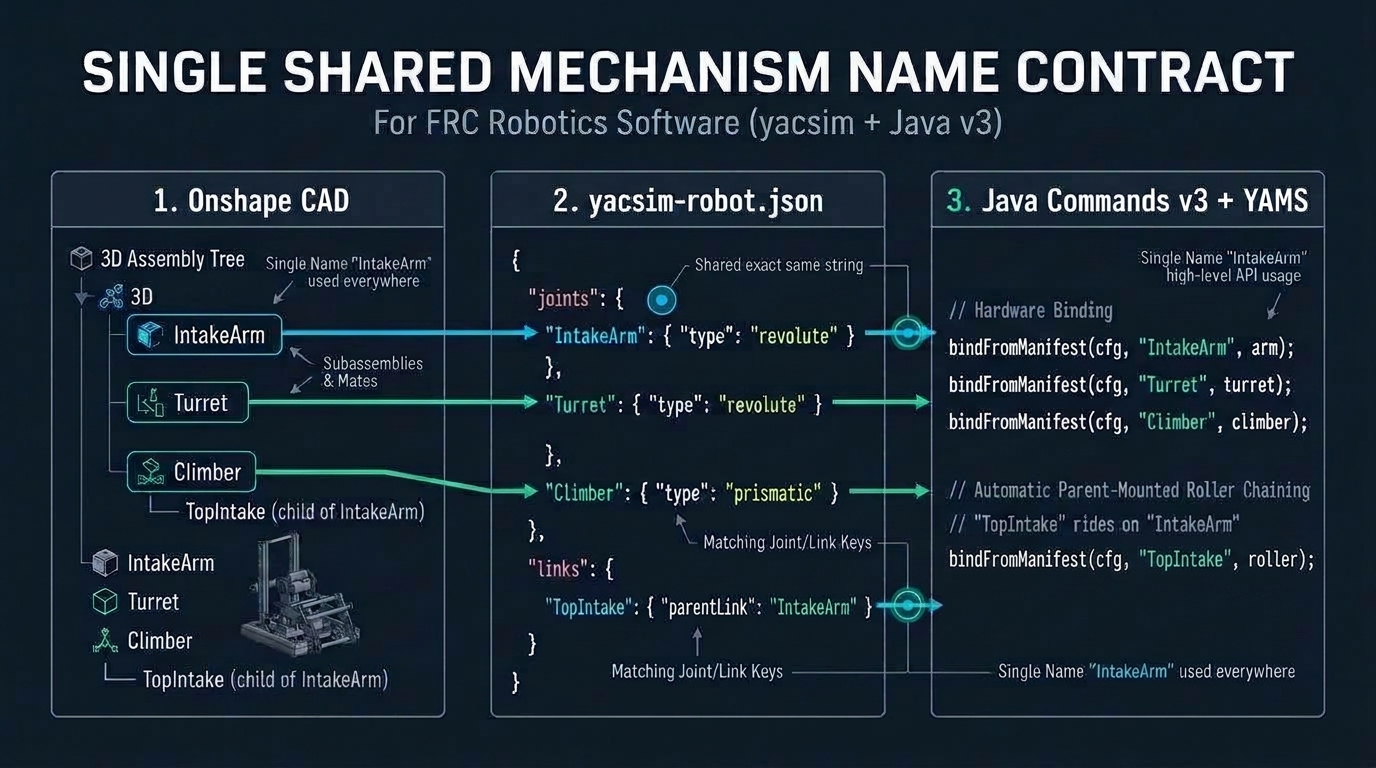
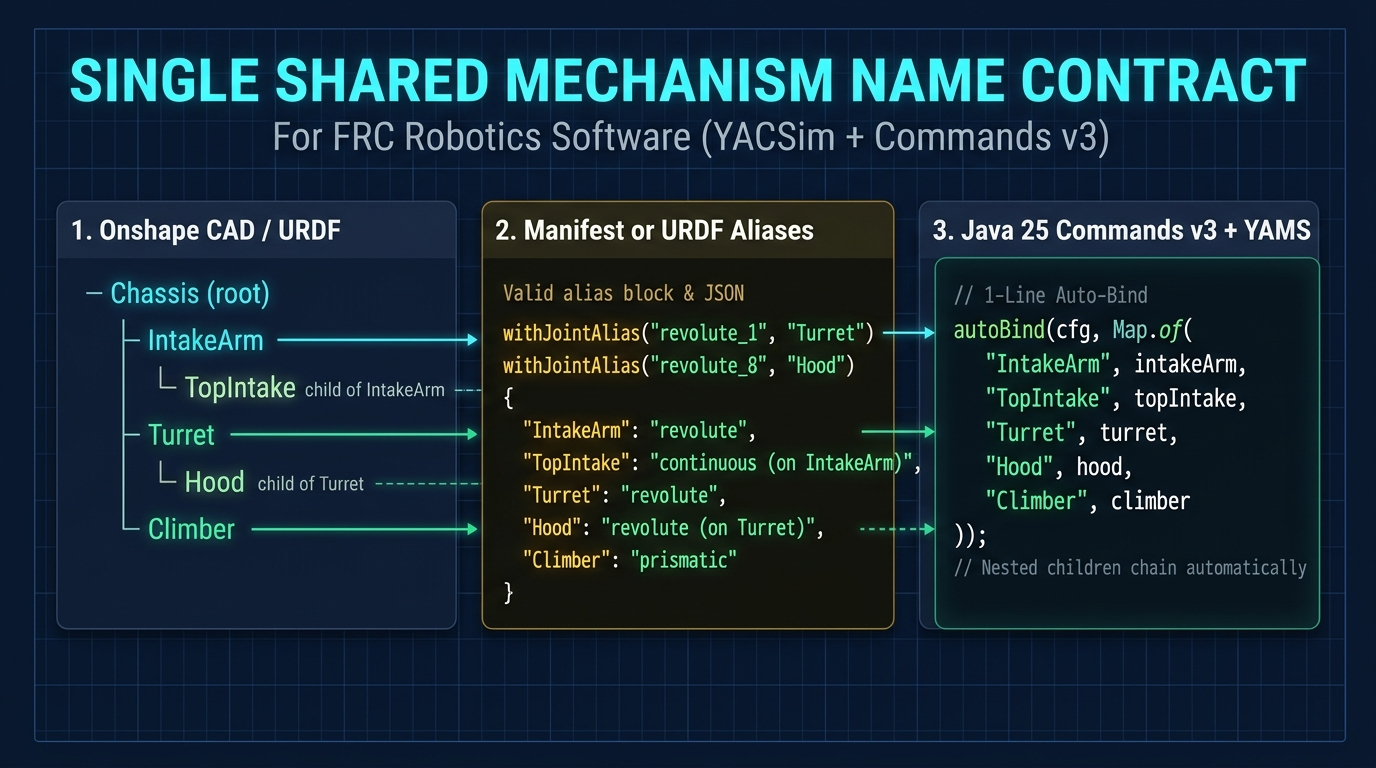
Docs & visuals audit fix for v2027.5.0-alpha1: API completeness, 5th example, Python test counts, and updated neon diagrams

diff --git a/examples/README.md b/examples/README.md
@@ -1,10 +1,10 @@
 # YACSim Examples (WPILib 2027 / Commands v3)
 
-Both examples are standalone WPILib `2027.0.0-alpha-7` GradleRIO projects configured to resolve YACSim from the relative local Maven repository (`../../../vendordep/build/maven/releases`).
+All five examples are standalone WPILib `2027.0.0-alpha-7` GradleRIO projects configured to resolve YACSim from the relative local Maven repository (`../../../vendordep/build/maven/releases`).
 
 ## Prerequisites
 
-Build and publish YACSim locally once before running either example:
+Build and publish YACSim locally once before running any example:
 
 ```powershell
 cd vendordep
@@ -35,10 +35,21 @@ An independent community port referencing [FRC Team 6328 Mechanical Advantage's 
    ```
 3. Switch the WPILib Sim GUI to **Teleoperated** and connect AdvantageScope to `127.0.0.1` to view `YACSim/RobotPose3d`, `YACSim/ComponentPoses`, `YACSim/CollisionActive`, `YACSim/CollisionDetails`, and `/YACSim/Rollers/<name>/{VelocityRPM,SurfaceSpeedMPS,Spinning}`.
 
-### 3. `commands3/darwin_6328_manifest_2027/` (Manifest-Driven CAD Automation)
+## 3. `commands3/darwin_6328_manifest_2027/` (Manifest-Driven CAD Automation)
 - **Robot**: FRC 6328 Mechanical Advantage *Darwin* (2026) referencing Darwin's [Onshape Assembly](https://cad.onshape.com/documents/2da573df9d139d7a1e0f08a8/w/5266e52966df9f56fcb472f0/e/15a6a42133f059b818ad5264).
 - **Highlights**: Loads all meshes, AdvantageScope zeroing, exact CAD mass/inertia, joint pivots, axes, hard/soft limits, drum/wheel radii, and cameras from `src/main/deploy/yacsim/darwin/yacsim-robot.json` via `CadRobotConfig.fromManifest(...)` and `YamsCommands3Bridge.bindFromManifest(...)`, leaving only CAN IDs, motor types, gear ratios, and PID/FF gains in Java.
 
-### 4. `commands3/gears_2181_2027/` (FRC Team 2181 GEARS — REVLib 2027 + YAMS + YACSim)
+## 4. `commands3/gears_2181_2027/` (FRC Team 2181 GEARS — REVLib 2027 + YAMS + YACSim)
 - **Robot**: Port of [FRCteam2181/2026-Comp-Code](https://github.com/FRCteam2181/2026-Comp-Code) (`main` branch) to WPILib 2027 Commands v3, REVLib 2027 (`SparkMax`/`SparkFlex`), YAMS 2027, and YACSim.
 - **Highlights**: All 7 mechanisms (`IntakeArm`, `Turret`, `Climber`, `Shooter`, `Spindexer`, `TopIntake`, `Input`) driven from `src/main/deploy/yacsim/gears2181/yacsim-robot.json` with automatic parent-mounted roller chaining (`TopIntake` riding on `IntakeArm`, `Shooter` riding on `Turret`), ready to drop in Team 2181's Onshape export with zero Java changes.
+
+## 5. `commands3/rebuilt_ballistics_3d_2027/` (RK4 3D Ballistics, Dual-Pose Truth & DataLog)
+
+- **Robot**: Self-contained 2026 REBUILT 3D showcase with lit `.glb` meshes (`chassis.glb`, `turret.glb`, `hood.glb`, `swerve_fork.glb`, `swerve_wheel.glb`) and `yacsim-field.json` 3D field OBBs.
+- **Highlights**: Demonstrates `v2027.5.0-alpha1` features end-to-end: dual-pose `/YACSim/SimTruthPose3d` alongside noisy odometry, direct WPILib `.wpilog` struct recording (`withDataLogEnabled(true)`), and pure-Java RK4 3D Fuel ballistics (`ProjectilePhysicsSim`, `FieldObstacle3d.loadFieldManifest(...)`, and `TrajectoryArcPublisher`).
+
+```powershell
+cd examples\commands3\rebuilt_ballistics_3d_2027
+.\setup_rebuilt_3d.ps1
+.\gradlew run "-Dorg.gradle.java.home=C:\Users\Public\wpilib\2027_alpha7\jdk"
+```

diff --git a/docs/API_REFERENCE.md b/docs/API_REFERENCE.md
@@ -35,6 +35,7 @@ Direct adapters binding YAMS 2027 Commands v3 mechanisms to YACSim `Supplier<Pos
 | `static List<Supplier<Pose3d>> fromCascadingElevator(Elevator elevator, int stageCount, Translation3d base, MotionAxis axis)` | Builds proportional per-stage `Pose3d` suppliers (`1/N .. N/N`). |
 | `static Supplier<Pose3d> fromFourBar(Arm arm, Translation3d pivot, double armLengthMeters, MotionAxis axis [, boolean inverted])` | Keeps a 4-bar end-effector level while following the arm's circular arc. |
 | `static CadDrivetrainConfig fromYamsSwerve(SwerveDrive drive, ...)` | Binds `drive::getPose`, `drive::getGyroRotation3d`, and `drive::getModulePositions` directly. |
+| `static CadRobotConfig attachSwerveModulesWithTruth(CadRobotConfig config, SwerveDrive drive, ...)` | (`v2027.5.0-alpha1`) Attaches 4 animated swerve modules AND binds `drive::getSimPose` to `/YACSim/SimTruthPose3d`. |
 | `static Supplier<Pose3d> fromYamsFlyWheel(FlyWheel flywheel, Transform3d mountOffset)` | Wraps YAMS `FlyWheel.getPose3d()` with a CAD mounting offset. |
 | `static Supplier<Pose3d> fromYamsRollerMotor(SmartMotorController motor, Translation3d axle, MotionAxis axis [, boolean inverted])` | Spins a roller/wheel `.glb` directly from `motor.getMechanismPosition()`. |
 | `static Supplier<Pose3d> fromMountedYamsRoller(Supplier<Pose3d> parentPose, SmartMotorController motor, Translation3d localAxle, MotionAxis axis, boolean inverted)` | Mounts a spinning roller bar onto a moving parent mechanism. |
@@ -87,6 +88,9 @@ Fluent builder defining a simulated robot's chassis, articulated components, col
 | `withChassisAsset(CadAssetConfig asset)` | Sets chassis CAD asset directly (when not using `CadDrivetrainConfig`). |
 | `addComponent(CadComponentConfig comp)` | Adds an articulated mechanism component in AdvantageScope `model_N` order. |
 | `withDrivetrainPoseSupplier(Supplier<Pose2d> s)` | Default: `Pose2d::new`. |
+| `withSimTruthPoseSupplier(Supplier<Pose3d> s)` | Optional (`v2027.5.0-alpha1`); publishes ground-truth 3D pose to `/<tableName>/SimTruthPose3d` alongside fused odometry. |
+| `withSimTruthPose2dSupplier(Supplier<Pose2d> s)` | Optional (`v2027.5.0-alpha1`); wraps a 2D ground-truth supplier (e.g., YAMS `SwerveDrive::getSimPose`) as `/<tableName>/SimTruthPose3d`. |
+| `withDataLogEnabled(boolean enabled)` | Default: `false` (`v2027.5.0-alpha1`); writes `Pose3d`, `Pose3d[]`, and collision flags directly to WPILib `DataLogManager` (`.wpilog`) even when NT4 is off. |
 | `withTelemetryTable(String table)` | Default: `"YACSim"`. |
 | `withAdvantageScopeExportDir(Path dir)` | Optional; exports `Robot_<robotName>` bundle on simulator startup. |
 | `withAutoInstallToAdvantageScope()` / `withAutoInstallToAdvantageScope(boolean)` | Default: `false`; installs `Robot_<robotName>` directly into the OS AdvantageScope `userAssets` directory. |

diff --git a/docs/GUIDES.md b/docs/GUIDES.md
@@ -278,3 +278,41 @@ Want CAD to feed your mesh paths, AdvantageScope zeroing, exact mass/inertia ten
 
 - **CAD-to-Code Naming Conventions**: See [CAD_CODE_NAMING_CONVENTIONS.md](CAD_CODE_NAMING_CONVENTIONS.md) for aligning Onshape subassemblies and mates with your Java mechanisms.
 - **Step-by-Step Implementation Walkthrough**: See [IMPLEMENTATION_WALKTHROUGH.md](IMPLEMENTATION_WALKTHROUGH.md) for a complete visual guide from blank project to AdvantageScope.
+
+## 6. RK4 3D Ballistics, Dual-Pose Truth, WPILib DataLog & Field Exporter (`v2027.5.0-alpha1`)
+
+### Dual-Pose Ground Truth (`SimTruthPose3d`) & Direct `.wpilog` Recording
+
+Publish ground-truth physics pose alongside noisy fused odometry and record directly to WPILib's `.wpilog` DataLog (even when NetworkTables 4 is disabled for competition):
+
+```java
+CadRobotConfig cfg = CadRobotConfig.fromUrdfOrZip(urdfZip, CadUrdfOptions.recommended())
+    .withDrivetrainPoseSupplier(swerve::getPose)
+    .withSimTruthPose2dSupplier(swerve::getSimPose) // publishes /YACSim/SimTruthPose3d
+    .withDataLogEnabled(true);                      // records Pose3d & Pose3d[] to DataLogManager
+```
+
+Or wire animated swerve modules and ground-truth pose in one call via `YamsCommands3Bridge.attachSwerveModulesWithTruth(cfg, swerve, ...)`.
+
+### Pure-Java RK4 3D Projectile Physics & Aim Arcs
+
+Load 3D field obstacles and scoring targets from `yacsim-field.json` and step `ProjectilePhysicsSim` at 50 Hz alongside `TrajectoryArcPublisher`:
+
+```java
+List<FieldObstacle3d> obstacles = FieldObstacle3d.loadFieldManifest(deployDir.resolve("yacsim-field.json"));
+ProjectilePhysicsSim ballistics = new ProjectilePhysicsSim()
+    .withMaxActiveProjectiles(128)
+    .addObstacles(obstacles);
+TrajectoryArcPublisher arcPub = new TrajectoryArcPublisher("YACSim", true);
+
+// Launch a 2026 REBUILT Fuel sphere with backspin (include robot chassis velocity for SOTM)
+ballistics.launch(ProjectileSpec.frcFuel2026(), muzzleOrigin, fieldLaunchVel, backspinRadPerSec);
+ballistics.step(0.02);
+arcPub.publishPredictedArc(
+    ballistics.predictArc(ProjectileSpec.frcFuel2026(), muzzleOrigin, fieldLaunchVel, backspinRadPerSec, 0.04, 40));
+arcPub.publishActiveProjectiles(ballistics);
+```
+
+### Exporting Synced Field Polygons & 3D OBBs
+
+Use `tools/onshape-field-exporter/field_exporter.py` to generate YAECE `SeasonConfig` JSON (Andymark & Welded), PathPlanner `navgrid.json`, and YACSim `yacsim-field.json` from a single field geometry source of truth. See [`tools/onshape-field-exporter/README.md`](../tools/onshape-field-exporter/README.md).

diff --git a/README.md b/README.md
@@ -60,10 +60,10 @@ Call `yacsim.updateTelemetry()` from `robotPeriodic()` and `yacsim.simIterate()`
 | --- | --- |
 | [Getting Started](docs/GETTING_STARTED.md) · [Implementation Walkthrough](docs/IMPLEMENTATION_WALKTHROUGH.md) | Installation, prerequisites, first simulation, and AdvantageScope setup |
 | [Guides](docs/GUIDES.md) · [Native Onshape URDF Guide](docs/ONSHAPE_URDF_GUIDE.md) · [CAD Manifest & URDF Guide](docs/CAD_MANIFEST_GUIDE.md) · [Onshape Exporter Guide](docs/ONSHAPE_EXPORTER_GUIDE.md) · [CAD-to-Code Naming Conventions](docs/CAD_CODE_NAMING_CONVENTIONS.md) | CAD prep, code-side CAD repair, multi-axis rotations, YAMS adapters, auto-calibrated collisions, and public *Darwin* CAD walkthrough |
-| [Java API Reference](docs/API_REFERENCE.md) | Class-by-class reference across all 8 packages (+ [Hosted Javadoc](https://holyartist31656.github.io/YACS/javadoc/)) |
+| [Java API Reference](docs/API_REFERENCE.md) | Class-by-class reference across all 10 packages (+ [Hosted Javadoc](https://holyartist31656.github.io/YACS/javadoc/)) |
 | [Unit Tests](docs/UNIT_TESTS.md) | Reference for all 9 JUnit 5 test classes (**67 JUnit 5 tests**) + **10 Python exporter tests** |
 | [Architecture & Performance](docs/ARCHITECTURE.md) | SystemCore 2 GB memory model, lock-free `SimSnapshot` threading, and public *Darwin* CAD benchmarks |
-| [Examples](examples/README.md) | Runnable WPILib 2027 Commands v3 examples (`arm_and_elevator_2027`, `darwin_6328_2027`, `darwin_6328_manifest_2027`, `gears_2181_2027`) |
+| [Examples](examples/README.md) | Runnable WPILib 2027 Commands v3 examples (`arm_and_elevator_2027`, `darwin_6328_2027`, `darwin_6328_manifest_2027`, `gears_2181_2027`, `rebuilt_ballistics_3d_2027`) |
 | [Changelog](docs/CHANGELOG.md) | Version history and release notes |
 
 ## Building Locally

diff --git a/docs/UNIT_TESTS.md b/docs/UNIT_TESTS.md
@@ -1,6 +1,6 @@
 # Unit Tests
 
-YACSim includes **9 JUnit 5 test classes (67 tests)** under `vendordep/src/test/java/yacsim/` plus **10 Python exporter unit tests** under `tools/onshape-exporter/test_exporter.py` (**77 automated tests total**). All tests run headless on desktop without requiring a roboRIO or SystemCore.
+YACSim includes **9 JUnit 5 test classes (67 tests)** under `vendordep/src/test/java/yacsim/` plus **10 Python exporter unit tests** (9 under `tools/onshape-exporter/test_exporter.py` + 1 under `tools/onshape-field-exporter/test_field_exporter.py`) (**77 automated tests total**). All tests run headless on desktop without requiring a roboRIO or SystemCore.
 
 ## Running Tests
 
@@ -21,6 +21,7 @@ cd vendordep
 
 ```powershell
 python -m pytest tools/onshape-exporter/test_exporter.py
+python -m unittest discover -s tools/onshape-field-exporter -p "test_*.py" -v
 ```
 
 ## Java Test Classes (67 JUnit 5 Tests)
@@ -70,3 +71,7 @@ python -m pytest tools/onshape-exporter/test_exporter.py
 ## Python Onshape Exporter Tests (`tools/onshape-exporter/test_exporter.py`, 9 Tests)
 
 - URL parsing, invalid URL rejection, mock Onshape assembly/mass/bbox extraction with striped roller GLB generation, `--augment-rollers` offline round-trip, SE(3) 4×4 zeroed-transform round-trip, `YACSIM_ORIGIN` frame alignment, `PLANAR` mate filtering, `--rename`, and `--prefix yacsim_` stripping.
+
+## Python Field Exporter Tests (`tools/onshape-field-exporter/test_field_exporter.py`, 1 Test)
+
+- Verifies end-to-end export from field geometry JSON into YAECE `SeasonConfig` (Andymark & Welded variants), PathPlanner `navgrid.json`, and YACSim `yacsim-field.json` 3D field OBB manifests.

diff --git a/vendordep/README.md b/vendordep/README.md
@@ -5,7 +5,7 @@ Open **this `vendordep/` directory** in **WPILib 2027 VS Code** to build, test, 
 ## Common Commands
 
 ```powershell
-# Format, build, run all 51 JUnit 5 tests, and generate Javadoc
+# Format, build, run all 67 JUnit 5 tests, and generate Javadoc
 .\gradlew spotlessApply build test javadoc "-Dorg.gradle.java.home=C:\Users\Public\wpilib\2027_alpha7\jdk"
 
 # Publish local Maven artifacts (build/maven/releases) and yacsim_commands3.json
@@ -18,4 +18,4 @@ Open **this `vendordep/` directory** in **WPILib 2027 VS Code** to build, test, 
 - **Maven Repository**: `https://holyartist31656.github.io/YACS/maven/releases/`
 - **Hosted Javadoc**: `https://holyartist31656.github.io/YACS/javadoc/`
 
-**Current Release:** `v2027.4.0-alpha1` (61 JUnit 5 tests across 8 test classes).
+**Current Release:** `v2027.5.0-alpha1` (67 JUnit 5 tests across 9 test classes).
